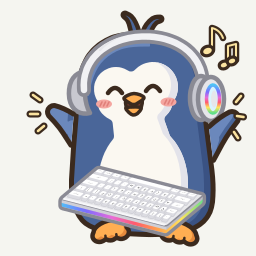
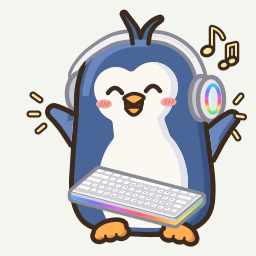
art: penguin fits the foreshortened keyboard (flipper tips on the back rows, contact squish hugs the tip, belly shade no longer strips the bottom under the board); headphone band hugs the crown and slips behind the far edge into the far cup, far cup only a crescent behind the head outline, tuft root

Changed region(s): [[0.2188, 0.6562, 0.75, 0.9375], [0.25, 0.0312, 0.6875, 0.4688], [0.6875, 0.1562, 0.8125, 0.3125]]

diff --git a/art/penguin/_src/gen_penguin.py b/art/penguin/_src/gen_penguin.py
@@ -12,6 +12,7 @@ at build time; the SVGs are plain paths.
 import json
 import math
 import re
+import sys
 from pathlib import Path
 
 from shapely import affinity
@@ -52,9 +53,14 @@ def kb_pt(x, y):
     return (30 + (x - 30) * KB_S + KB_T[0], 200 + (y - 200) * KB_S + KB_T[1])
 
 
+sys.path.insert(0, str(OUT.parent.parent / "scripts"))
+from gen_keyboard import P as kb_grid  # noqa: E402  (the shared key grid, key units -> default viewBox)
+
+
 def key(s, t):
-    """Shared key grid K(s,t) (SPEC) mapped through this animal's keyboard transform."""
-    return kb_pt(37.4 + s * 8.84 + t * 8.74, 185.9 + s * 2.27 - t * 7.34)
+    """Shared key grid (scripts/gen_keyboard.py, s from the left key edge, t from the front key
+    edge as the typist sees it) mapped through this animal's keyboard transform."""
+    return kb_pt(*kb_grid(s, t))
 
 
 KB_BACK = [kb_pt(80, 146), kb_pt(220, 182)]       # back edge of the case
@@ -226,7 +232,8 @@ def body_layers(w=None, hop=False):
     sheen = inner.difference(affinity.translate(inner, 6, 7)).intersection(W(box(0, 0, 150, 96), ww))
     sheen = sheen.buffer(-0.6).buffer(0.6)
     # shade on the white: right side of the belly + a soft chin shadow under the face lobes
-    wsh = face.difference(affinity.translate(face, -7, -2)).intersection(box(150, 0, 256, 256))
+    # (sideways shift only: no strip along the bottom of the belly, which now shows under the board)
+    wsh = face.difference(affinity.translate(face, -7, 0)).intersection(box(150, 0, 256, 256)).buffer(-0.5).buffer(0.5)
     chin = W(Polygon(cubic((104, 126), (122, 138), (156, 140), (178, 122), 24)
                      + cubic((178, 128), (156, 146), (122, 146), (104, 132), 24)), ww).intersection(face)
     sd = poly_d(sil)
@@ -237,7 +244,8 @@ def body_layers(w=None, hop=False):
 # tuft: two little feathers curling up from the crown, drawn behind the egg
 TUFTS = {
     "rest": [[(137, 42), (134, 30), (128, 23), (122, 22)], [(144, 42), (147, 31), (153, 25), (159, 26)]],
-    "perk": [[(137, 42), (134, 28), (130, 19), (125, 15)], [(144, 42), (148, 29), (154, 21), (160, 19)]],
+    # perked up from the same roots (identical below y 30, where the headphone band crosses them)
+    "perk": [[(137, 42), (134, 30), (128.6, 21.2), (124, 14)], [(144, 42), (147, 31), (153.4, 23.2), (160, 19)]],
 }
 
 
@@ -337,7 +345,7 @@ def face_layers(eyes, mouth, w=None, hop=False):
 
 # ---------------------------------------------------------------- flippers
 SHOULDER = {"L": (84, 146), "R": (200, 163)}
-REST = {"L": key(1.2, 4.3), "R": key(13.2, 4.1)}
+REST = {"L": key(1.2, 4.2), "R": key(12.7, 4.2)}   # back rows, clear of the case rim
 
 
 def flipper_shape(root, tip, bow, rmax=14.0, rtip=6.5):
@@ -433,11 +441,13 @@ def flip_tip(side, state):
 
 
 def key_touch(tip, state):
-    """Tiny contact squish under a pressed flipper tip."""
+    """Tiny contact squish under a pressed flipper tip: a short arc hugging the tip's outline, so it
+    stays on the key surface (and reads as a flattened tip with the keyboard off)."""
     if state != "pressed":
         return []
     x, y = tip
-    return [stroke(f"M{f(x - 6)} {f(y + 7.5)} Q{f(x)} {f(y + 9.5)} {f(x + 6)} {f(y + 7.5)}", 2.5)]
+    arc = [(x + 7.6 * math.cos(math.radians(a)), y + 7.6 * math.sin(math.radians(a))) for a in range(45, 136, 9)]
+    return [stroke(pts_d(arc), 2.5)]
 
 
 def paws_layer(ls, rs, sleeping=False):
@@ -521,22 +531,99 @@ def hp_ring_defs(y0, y1, gid="hp-ring"):
             f'{s}</linearGradient></defs>')
 
 
+def ring_arc(ring, p0, p1, via_top=True):
+    """The stretch of a closed ring between the points nearest p0 and p1, the way round that passes
+    over the top (smallest y), as a list of points from p0 to p1."""
+    ln = LineString(ring.coords)
+    L = ln.length
+    a, b = ln.project(Point(p0)), ln.project(Point(p1))
+    lo, hi = min(a, b), max(a, b)
+    inner = substring(ln, lo, hi)
+    outer = unary_union([substring(ln, hi, L), substring(ln, 0, lo)])
+    outer = shapely.line_merge(outer) if outer.geom_type == "MultiLineString" else outer
+    pick = inner if (min(y for _, y in inner.coords) < min(y for _, y in outer.coords)) == via_top else outer
+    pts = list(pick.coords)
+    if Point(pts[0]).distance(Point(p0)) > Point(pts[-1]).distance(Point(p0)):
+        pts = pts[::-1]
+    return pts
+
+
 def headphones(w):
-    band_c = cubic((84, 90), (78, 22), (206, 16), (203, 88), 80)
-    band = W(LineString(band_c), w)
-    outer = band.buffer(7, cap_style="round")
-    inner = band.buffer(3.25, cap_style="round")
-    hl = W(LineString(cubic((100, 50), (114, 34), (140, 28), (166, 31), 30)), w).buffer(1.25).intersection(inner.buffer(-0.3))
-    far = W(Polygon(cubic((88, 72), (72, 70), (68, 86), (69, 96)) + cubic((69, 96), (70, 108), (78, 116), (90, 113))
-                    + cubic((90, 113), (84, 104), (83, 84), (88, 72))), w)
-    cush = W(ellipse_poly(201, 98, 11, 22), w)
-    cap = W(ellipse_poly(211, 99, 13, 22), w)
-    ring = W(ellipse_poly(213, 99, 6.5, 14), w)
-    dot = W(ellipse_poly(214, 99, 3, 8.5), w)
+    """Band hugging the crown from the near cup over the top, swinging just outside the far side of
+    the egg to the far cup; the far cup sits behind the head (only a crescent outside the outline,
+    head outline redrawn over it); the tuft's roots grow up in front of the band."""
+    # band centreline: the egg outline offset from 2 inside (crown, near side) to 4.5 outside where
+    # it reaches the far cup, so it leaves the head before it gets there instead of cutting across
+    edge = ring_arc(SIL.exterior, (204, 86), (79, 76))
+    sil_ring = SIL.exterior
+    cen = []
+    n = len(edge)
+    for i, (x, y) in enumerate(edge):
+        t = i / (n - 1)
+        q0 = edge[max(i - 1, 0)]
+        q1 = edge[min(i + 1, n - 1)]
+        tx, ty = q1[0] - q0[0], q1[1] - q0[1]
+        L = math.hypot(tx, ty) or 1
+        nx, ny = ty / L, -tx / L                       # outward normal (ring runs clockwise on screen)
+        if Point(x + nx, y + ny).within(SIL):
+            nx, ny = -nx, -ny
+        k = min(max((y - 40) / 40, 0), 1) if x < 130 else 0.0
+        k = k * k * (3 - 2 * k)
+        off = -2.0 + 9.0 * k
+        cen.append((x + nx * off, y + ny * off))
+    # last bit drops straight into the far cup
+    cen.append((cen[-1][0] + 0.3, cen[-1][1] + 6))
+    m = len(cen)
+    taper = lambda t, r0, r1: r0 + (r1 - r0) * min(max((t - 0.6) / 0.4, 0), 1)
+    outer = vtube(cen, lambda t: taper(t, 7.0, 5.2))
+    inner = vtube(cen, lambda t: taper(t, 3.25, 2.1))
+    hl_pts = cen[int(m * 0.18):int(m * 0.52)]
+    hl = vtube([(x, y - 1.2) for x, y in hl_pts], lambda t: 1.25).intersection(inner.buffer(-0.4))
+    far = Polygon(cubic((88, 72), (71, 69), (66, 86), (67, 96)) + cubic((67, 96), (68, 109), (77, 117), (90, 113))
+                  + cubic((90, 113), (84, 104), (83, 84), (88, 72)))
+    far_vis = far.difference(SIL)
+    cush = ellipse_poly(201, 98, 11, 22)
+    cap = ellipse_poly(211, 99, 13, 22)
+    ring = ellipse_poly(213, 99, 6.5, 14)
+    dot = ellipse_poly(214, 99, 3, 8.5)
+    # tuft roots in front of the band (the two tuft poses agree to within a pixel below the band's
+    # top edge, so one overlay fits both)
+    tufts = unary_union([vtube(catmull(pp, 8), lambda t: 4.6 - 2.4 * t) for pp in TUFTS["rest"]])
+    t_fill = tufts.intersection(outer)
+    # where the root is inside the egg it takes the crown's colours, so it grows out of the head
+    c_in = SIL.buffer(-5.5)
+    t_sheen = t_fill.intersection(c_in.difference(affinity.translate(c_in, 6, 7)).intersection(box(0, 0, 150, 96))
+                                  .buffer(-0.6).buffer(0.6))
+    t_line = tufts.exterior if tufts.geom_type == "Polygon" else unary_union([g.exterior for g in tufts.geoms])
+    t_line = t_line.intersection(outer.buffer(0.3))
+    # on the far side, where the band swings off the head, the head outline runs in front of it;
+    # it starts inside the band's dark inner edge, so it reads as that edge turning into the outline
+    zone = unary_union([outer.buffer(0.5).intersection(box(0, 44, 128, 256)).difference(inner.buffer(0.6)),
+                        far.buffer(3)])
+    far_line = sil_ring.intersection(zone)
+    far_line = shapely.line_merge(far_line) if far_line.geom_type == "MultiLineString" else far_line
+    shapes = []
+    for ln in (far_line.geoms if hasattr(far_line, "geoms") else [far_line]):
+        pts = list(ln.coords)
+        if pts[0][1] > pts[-1][1]:
+            pts = pts[::-1]
+        L = ln.length
+        dense = [ln.interpolate(L * i / max(int(L / 0.8), 2)) for i in range(max(int(L / 0.8), 2) + 1)]
+        dense = [(q.x, q.y) for q in dense]
+        if dense[0][1] > dense[-1][1]:
+            dense = dense[::-1]
+        # thin where it comes out of the band, full outline width after ~9 units
+        taper_in = Point(dense[0]).within(outer)
+        shapes.append(vtube(dense, (lambda t, L=L: 0.7 + 1.8 * min(t * L / 9, 1)) if taper_in else (lambda t: 2.5)))
+    far_line = unary_union(shapes)
+    far_vis, far_line, outer, inner, hl, cush, cap, ring, dot, t_fill, t_sheen, t_line = (
+        W(g, w) for g in (far_vis, far_line, outer, inner, hl, cush, cap, ring, dot, t_fill, t_sheen, t_line))
     y0, y1 = ring.bounds[1], ring.bounds[3]
+    fd = poly_d(far_vis)
     return [hp_ring_defs(y0, y1), "<g>",
-            outlined(poly_d(far), HP_SH, 4.5, G_LINE),
             fill(poly_d(outer), G_LINE), fill(poly_d(inner), HP_BAND), fill(poly_d(hl), HP_CUP),
+            outlined(fd, HP_SH, 4.5, G_LINE), fill(poly_d(far_line), LINE),
+            fill(poly_d(t_fill), MAIN), fill(poly_d(t_sheen), SHEEN), stroke(line_d(t_line), 4.5),
             outlined(poly_d(cush), HP_SH, 4.5, G_LINE), outlined(poly_d(cap), HP_CUP, 4.5, G_LINE),
             f'<path d="{poly_d(ring)}" fill="{HP_GLOW}" stroke="url(#hp-ring)" stroke-width="3.5"/>',
             fill(poly_d(dot), HP_CUP), "</g>"]
@@ -603,7 +690,8 @@ def glasses(w):
     bridge = W(LineString(cubic((128, 88), (132, 83), (136, 82), (140, 86), 10)), w)
     # temple arm runs back to the head outline and stops on it (round cap tucked into the line)
     arm = W(LineString([(166, 87), (202, 82)]).intersection(SIL.buffer(-2.5)), w)
-    farm = W(LineString([(102, 90), (86, 89)]), w)
+    # far arm runs back to the far side of the head outline too and goes behind it there
+    farm = W(LineString([(102, 90), (70, 88.5)]).intersection(SIL.buffer(-2.5)), w)
     return ["<g>",
             f'<circle cx="{f(lx)}" cy="{f(ly)}" r="{r - 1}" fill="#FFFFFF" fill-opacity="0.3"/>',
             f'<circle cx="{f(rx)}" cy="{f(ry)}" r="{r}" fill="#FFFFFF" fill-opacity="0.3"/>',
